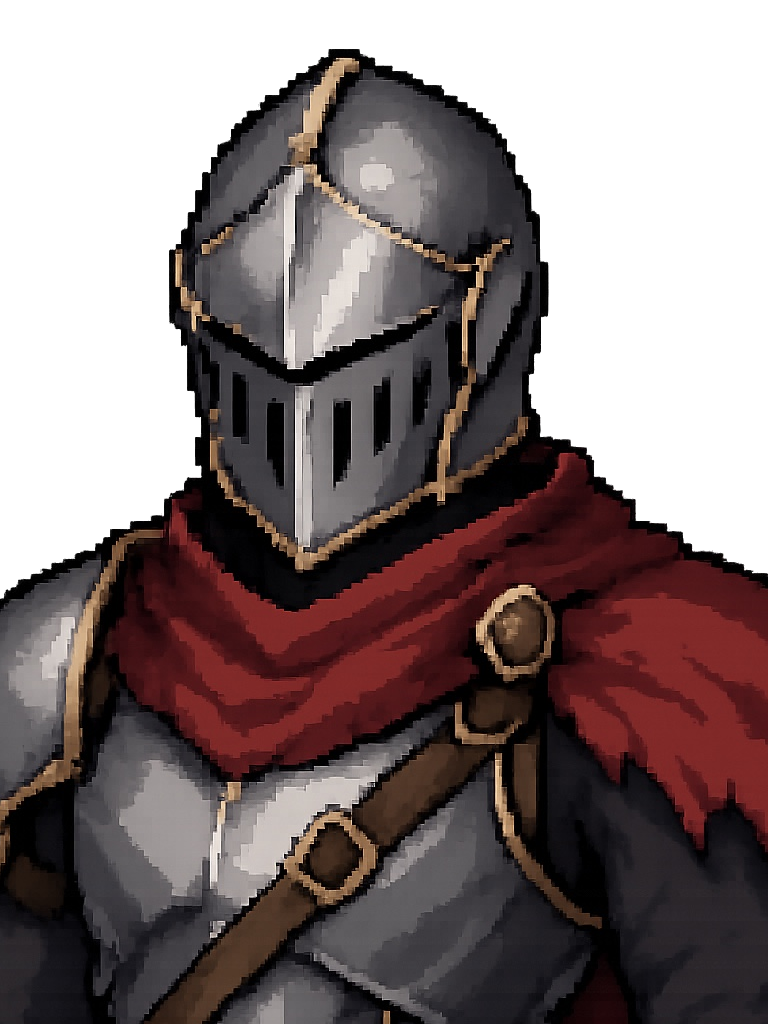
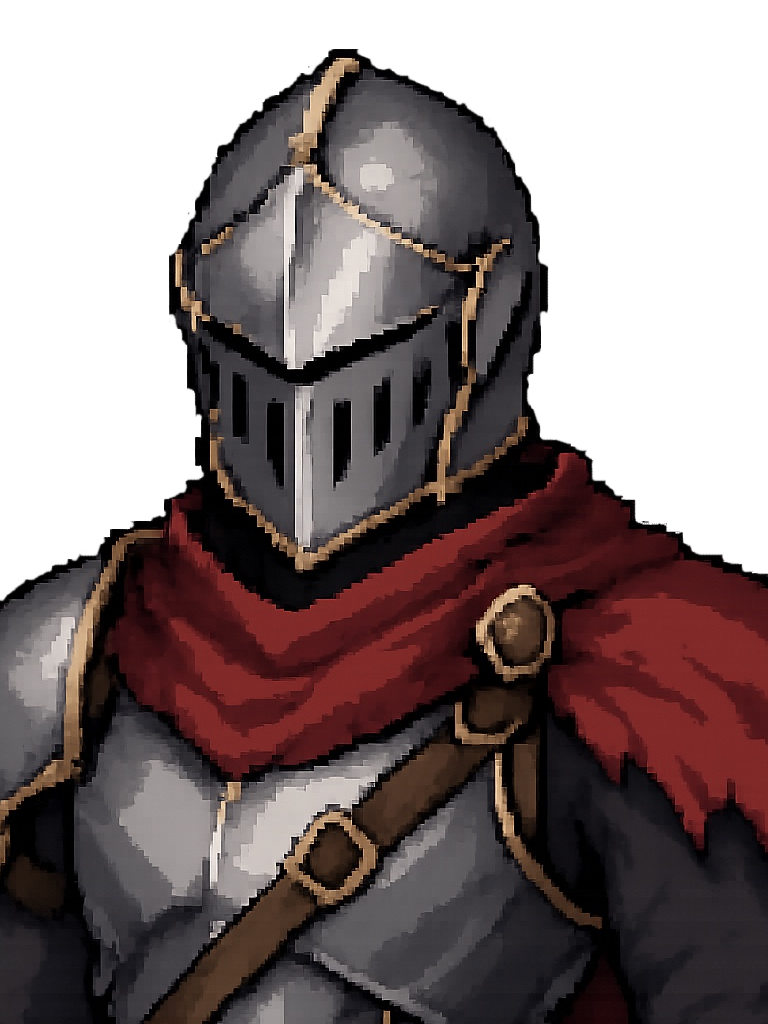
feat add AI models

diff --git a/src/lib/ai/model-presets.ts b/src/lib/ai/model-presets.ts
@@ -8,16 +8,46 @@ export const AI_MODEL_PRESETS: AIModelPreset[] = [
     model: "gemini-2.5-flash",
   },
   {
+    id: "gemini-3.1-pro-preview",
+    provider: "gemini",
+    label: "Gemini 3.1 Pro Preview",
+    model: "gemini-3.1-pro-preview",
+  },
+  {
     id: "claude-sonnet",
     provider: "claude",
     label: "Claude Sonnet",
     model: "claude-sonnet-4-20250514",
   },
   {
+    id: "claude-opus",
+    provider: "claude",
+    label: "Claude Opus 4.8",
+    model: "claude-opus-4-8",
+  },
+  {
     id: "gpt-4o",
     provider: "openai",
     label: "GPT-4o",
     model: "gpt-4o",
+  },
+  {
+    id: "gpt-5.5",
+    provider: "openai",
+    label: "GPT-5.5",
+    model: "gpt-5.5",
+  },
+  {
+    id: "gpt-5.4",
+    provider: "openai",
+    label: "GPT-5.4",
+    model: "gpt-5.4",
+  },
+  {
+    id: "gpt-5.4-mini",
+    provider: "openai",
+    label: "GPT-5.4 Mini",
+    model: "gpt-5.4-mini",
   },
 ];
 

diff --git a/src/lib/ai/openai-provider.ts b/src/lib/ai/openai-provider.ts
@@ -41,7 +41,7 @@ export class OpenAIProvider implements AIProvider {
         },
         ...messages,
       ],
-      max_tokens: OPENAI_MAX_OUTPUT_TOKENS,
+      max_completion_tokens: OPENAI_MAX_OUTPUT_TOKENS,
       temperature: 0.8,
     });
 